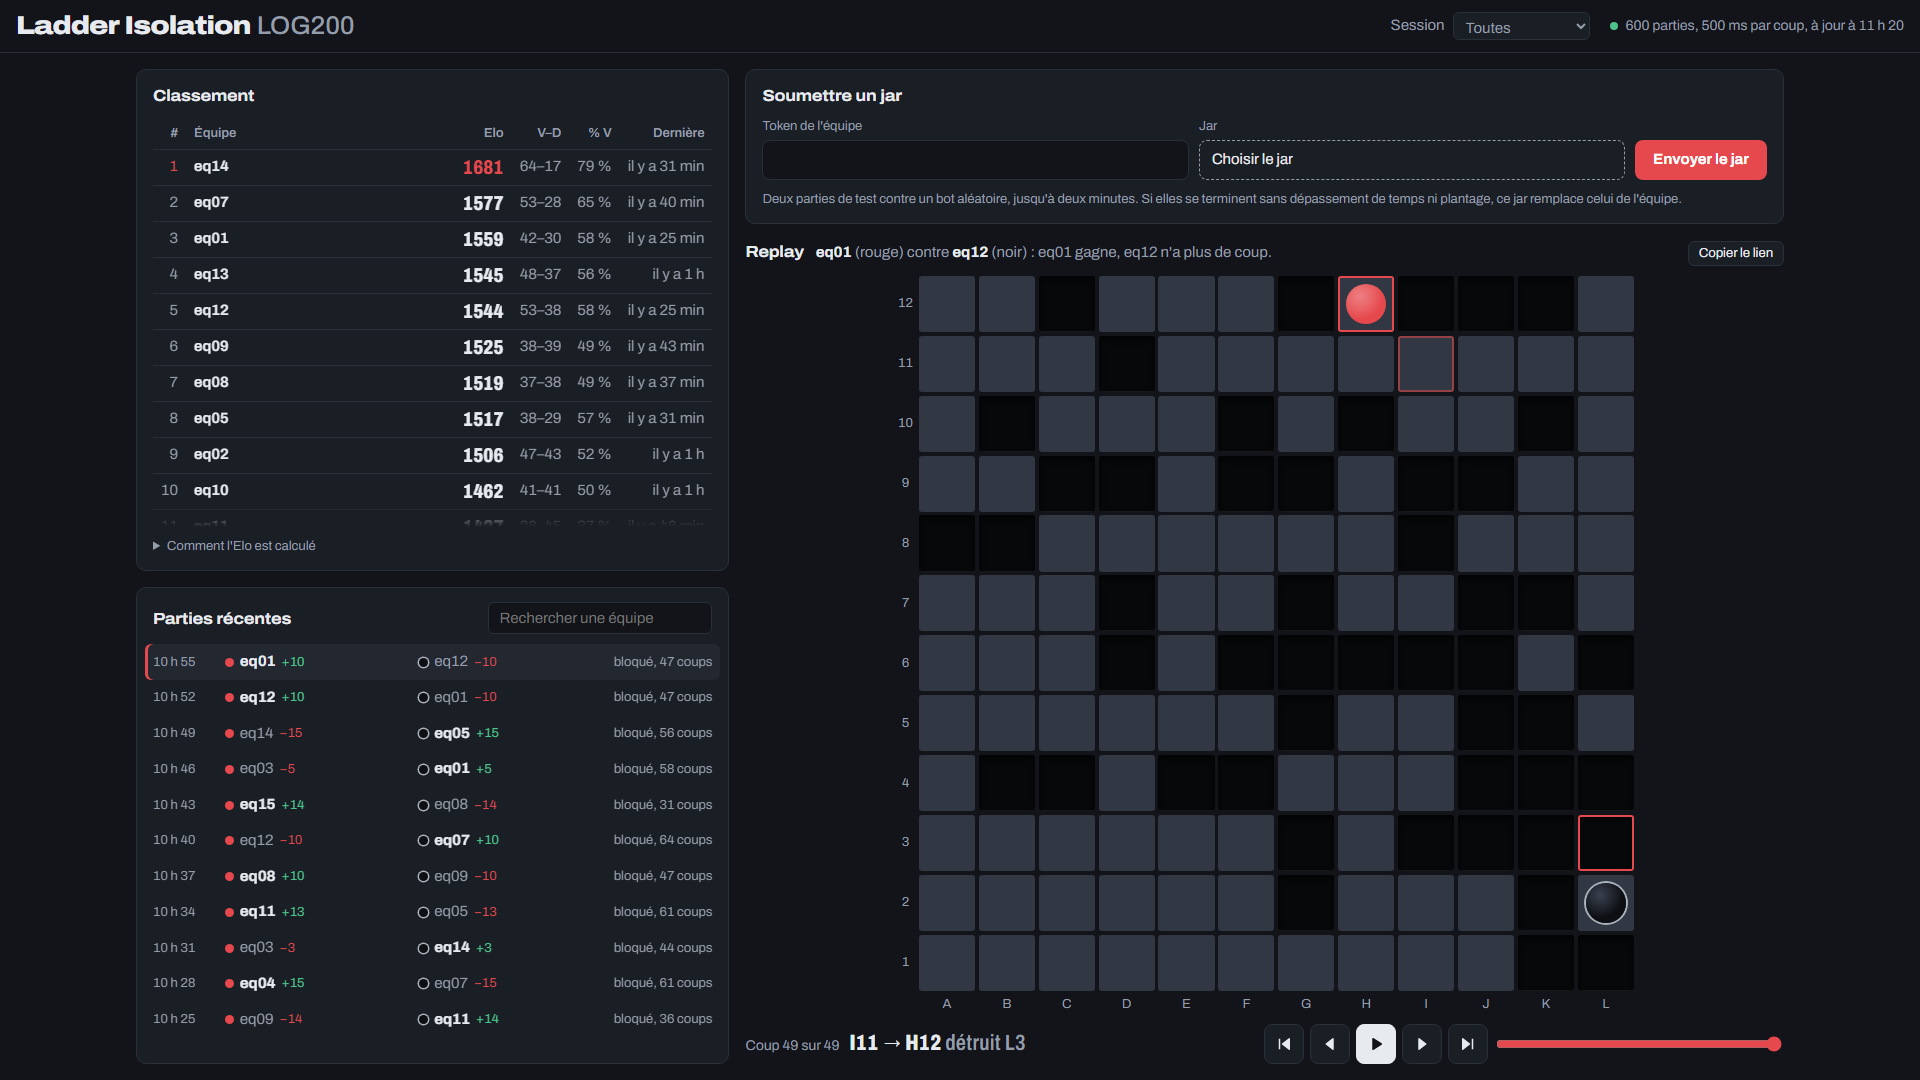
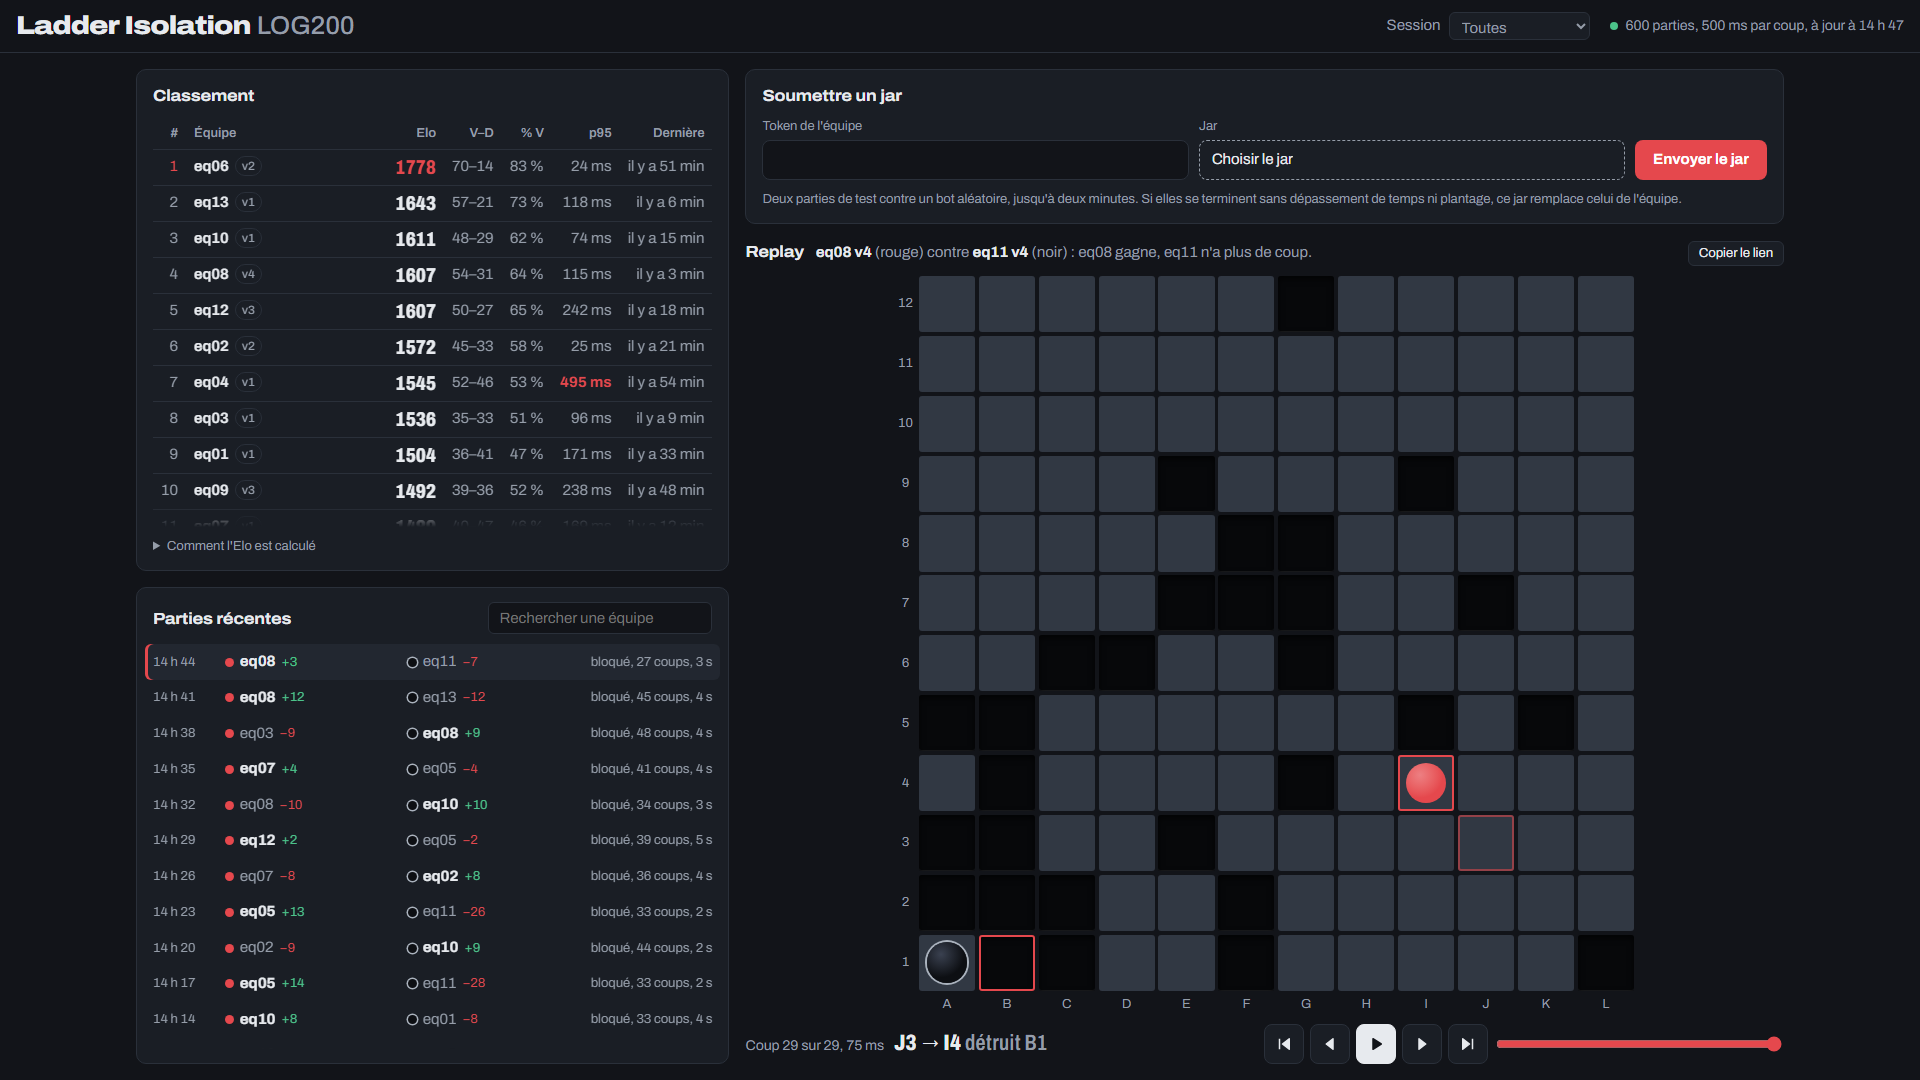
feat: enhance game result structure with move timing

diff --git a/web/app.js b/web/app.js
@@ -3,7 +3,7 @@
 // sert la page. Données : ?data=URL, sinon <serveur>/data/games.jsonl.
 // ?session=, ?team= et ?game= suivent les choix de la page : l'adresse se partage telle quelle.
 
-import { computeRatings, parseJsonl, sessions, START } from './elo.js'
+import { computeRatings, moveTimes, parseJsonl, percentile, sessions, START, versions } from './elo.js'
 import { BLACK, DESTROYED, positions, RED, SIZE, squareName } from './replay.js'
 
 const params = new URLSearchParams(location.search)
@@ -12,6 +12,8 @@ const DATA_URL = params.get('data') ?? `${SERVER}/data/games.jsonl`
 const REFRESH_MS = 15000
 const RECENT_GAMES = 50
 const PLAY_MS = 500
+// p99 au-delà de cette part du temps par coup : l'équipe frôle le timeout.
+const PACE_WARN = 0.8
 const GLOBAL = ''
 const SESSION = params.get('session') ?? GLOBAL
 const TEAM = params.get('team') ?? GLOBAL
@@ -37,6 +39,8 @@ const ENDINGS = {
 
 let lastText = null
 let games = []
+// Équipe vers ses builds dans l'ordre, toutes sessions : sert à afficher vN.
+let builds = new Map()
 // Courbe de l'équipe recherchée : points[0] est le départ à START, puis une entrée d'historique par partie.
 let chart = { team: null, points: [], min: 0, max: 0, index: 0 }
 // `pinned` : la personne a choisi une partie ; sinon le replay suit la dernière jouée.
@@ -82,6 +86,7 @@ async function refresh() {
             const first = lastText === null
             lastText = text
             games = parseJsonl(text).games
+            builds = versions(games)
             renderSessions(first)
             const linked = first && games.find((g) => g.id === GAME)
             if (linked) showGame(linked, true)
@@ -145,7 +150,7 @@ function render() {
     const session = $('session').value || null
     const list = selectedGames()
     const ratings = computeRatings(games, session)
-    renderRanking(ratings)
+    renderRanking(ratings, paces(ratings, session))
     renderChart(ratings)
     renderGames(list, new Map(ratings.flatMap((r) => r.history.map((h) => [`${h.id}|${r.team}`, h]))))
 
@@ -160,7 +165,42 @@ function render() {
     if (latest && !replay.pinned && replay.game?.id !== latest.id) showGame(latest)
 }
 
-function renderRanking(ratings) {
+// « v3 » pour le build de `player`, vide sans build.
+function version(player) {
+    const n = player.build ? (builds.get(player.team)?.indexOf(player.build) ?? -1) + 1 : 0
+    return n ? `v${n}` : ''
+}
+
+// Temps par coup de chaque équipe avec son build du classement : coups triés et plus petit temps alloué.
+function paces(ratings, session) {
+    const current = new Map(ratings.map((r) => [r.team, r.build]))
+    const out = new Map()
+    for (const g of games) {
+        if (session !== null && g.session !== session) continue
+        for (const color of ['red', 'black']) {
+            const p = g[color]
+            if ((p.build ?? null) !== current.get(p.team)) continue
+            const ms = moveTimes(g, color)
+            if (!ms.length) continue
+            const pace = out.get(p.team) ?? { ms: [], limit: Infinity }
+            pace.ms.push(...ms)
+            pace.limit = Math.min(pace.limit, g.time_ms)
+            out.set(p.team, pace)
+        }
+    }
+    for (const pace of out.values()) pace.ms.sort((a, b) => a - b)
+    return out
+}
+
+function paceCell(pace) {
+    if (!pace) return el('td', { class: 'num pace' })
+    const [p50, p95, p99] = [0.5, 0.95, 0.99].map((p) => percentile(pace.ms, p))
+    const title = `Médiane ${p50} ms, p99 ${p99} ms, max ${pace.ms.at(-1)} ms, ${pace.ms.length} coups`
+    const warn = p99 >= PACE_WARN * pace.limit ? ' warn' : ''
+    return el('td', { class: `num pace${warn}`, title }, `${p95} ms`)
+}
+
+function renderRanking(ratings, pace) {
     $('ranking-empty').hidden = ratings.length > 0
     $('anchor-note').hidden = !ratings.some((r) => r.anchor)
     $('ranking')
@@ -168,6 +208,8 @@ function renderRanking(ratings) {
         .replaceChildren(
             ...ratings.map((r, i) => {
                 const team = el('td', { class: 'team', title: r.team }, r.team)
+                const v = version(r)
+                if (v) team.append(el('span', { class: 'badge', title: `Build ${r.build}` }, v))
                 if (r.anchor) team.append(el('span', { class: 'badge anchor' }, 'ancre'))
                 if (r.provisional) team.append(el('span', { class: 'badge' }, 'provisoire'))
                 return el(
@@ -178,6 +220,7 @@ function renderRanking(ratings) {
                     el('td', { class: 'num elo' }, String(Math.round(r.rating))),
                     el('td', { class: 'num record' }, `${r.wins}–${r.losses}`),
                     el('td', { class: 'num pct' }, `${Math.round((100 * r.wins) / r.games)} %`),
+                    paceCell(pace.get(r.team)),
                     el(
                         'td',
                         { class: 'num last-col', title: r.last ? fullFormat.format(new Date(r.last)) : '' },
@@ -293,7 +336,11 @@ function renderGames(list, deltas) {
                 el('time', { datetime: g.ts, title: fullFormat.format(new Date(g.ts)) }, shortWhen(g.ts)),
                 side('red'),
                 side('black'),
-                el('span', { class: 'meta' }, `${REASONS[g.reason] ?? g.reason}, ${g.moves.length} coups`)
+                el(
+                    'span',
+                    { class: 'meta' },
+                    `${REASONS[g.reason] ?? g.reason}, ${g.moves.length} coups, ${Math.round(g.duration_ms / 1000)} s`
+                )
             )
             if (replay.game?.id === g.id) button.setAttribute('aria-current', 'true')
             button.addEventListener('click', () => showGame(g, true))
@@ -307,16 +354,19 @@ function renderGames(list, deltas) {
 function showGame(g, pinned = replay.pinned) {
     stopPlayback()
     const steps = positions(g)
-    replay = { game: g, steps, index: steps.length - 1, timer: null, pinned }
+    // moveMs[k] : temps du coup moves[k], vide si absent ou incohérent.
+    const moveMs = g.move_ms?.length === g.moves.length ? g.move_ms : []
+    replay = { game: g, steps, moveMs, index: steps.length - 1, timer: null, pinned }
     setParam('game', pinned ? g.id : null)
     $('step').max = String(steps.length - 1)
 
     const loser = g.winner === 'red' ? 'black' : 'red'
     const ending = ENDINGS[g.reason]?.(g[loser].team) ?? g.reason
+    const name = (color) => [g[color].team, version(g[color])].filter(Boolean).join(' ')
     $('replay-info').replaceChildren(
-        el('strong', {}, g.red.team),
+        el('strong', {}, name('red')),
         ' (rouge) contre ',
-        el('strong', {}, g.black.team),
+        el('strong', {}, name('black')),
         ` (noir) : ${g[g.winner].team} gagne, ${ending}.`
     )
     for (const button of $('games').querySelectorAll('.game')) {
@@ -328,7 +378,7 @@ function showGame(g, pinned = replay.pinned) {
 }
 
 function drawStep() {
-    const { steps, index } = replay
+    const { steps, moveMs, index } = replay
     const step = steps[index]
     const board = $('board')
     const nodes = []
@@ -359,7 +409,10 @@ function drawStep() {
     $('step').value = String(index)
     if (step.move) {
         const { from, to, destroyed } = step.move
-        $('move-count').textContent = `Coup ${index} sur ${total}${step.opening ? ', ouverture' : ''}`
+        // Les coups des clients sont les derniers pas, après l'ouverture.
+        const ms = moveMs[index - (steps.length - moveMs.length)]
+        const detail = step.opening ? ', ouverture' : ms !== undefined ? `, ${ms} ms` : ''
+        $('move-count').textContent = `Coup ${index} sur ${total}${detail}`
         $('move-text').replaceChildren(
             `${squareName(from)} → ${squareName(to)} `,
             el('span', { class: 'destroyed' }, `détruit ${squareName(destroyed)}`)

diff --git a/web/elo.js b/web/elo.js
@@ -89,6 +89,32 @@ export function computeRatings(games, session = null) {
         .sort((a, b) => b.rating - a.rating)
 }
 
+// Builds distincts de chaque equipe dans l'ordre d'apparition, toutes sessions : vN = index + 1.
+export function versions(games) {
+    const out = new Map()
+    const sorted = games.slice().sort((a, b) => (a.ts < b.ts ? -1 : a.ts > b.ts ? 1 : 0))
+    for (const g of sorted) {
+        for (const p of [g.red, g.black]) {
+            if (!p.build) continue
+            if (!out.has(p.team)) out.set(p.team, [])
+            if (!out.get(p.team).includes(p.build)) out.get(p.team).push(p.build)
+        }
+    }
+    return out
+}
+
+// Temps de reflexion des coups de `color` ; vide si absent ou incoherent. Le rouge joue les coups pairs.
+export function moveTimes(game, color) {
+    const ms = game.move_ms
+    if (!Array.isArray(ms) || ms.length !== game.moves.length) return []
+    return ms.filter((_, i) => i % 2 === (color === 'red' ? 0 : 1))
+}
+
+// Rang le plus proche, sur une liste triee non vide.
+export function percentile(sorted, p) {
+    return sorted[Math.max(0, Math.ceil(p * sorted.length) - 1)]
+}
+
 export function sessions(games) {
     const latest = new Map()
     for (const g of games) {

diff --git a/web/index.html b/web/index.html
@@ -43,6 +43,9 @@
                             <th scope="col" class="num">Elo</th>
                             <th scope="col" class="num"><abbr title="Victoires et défaites">V–D</abbr></th>
                             <th scope="col" class="num"><abbr title="Pourcentage de victoires">% V</abbr></th>
+                            <th scope="col" class="num pace">
+                                <abbr title="95e centile du temps par coup, version actuelle">p95</abbr>
+                            </th>
                             <th scope="col" class="num last-col">Dernière</th>
                         </tr>
                     </thead>

diff --git a/web/style.css b/web/style.css
@@ -337,8 +337,14 @@ tbody tr:first-child .elo {
 
 .record,
 .last-col,
-.pct {
+.pct,
+.pace {
     color: var(--muted);
+}
+
+.pace.warn {
+    color: var(--red);
+    font-weight: 700;
 }
 
 .badge {
@@ -895,7 +901,8 @@ input[type='range'] {
     }
 
     .last-col,
-    .pct {
+    .pct,
+    .pace {
         display: none;
     }
 

diff --git a/src/bin/referee.rs b/src/bin/referee.rs
@@ -69,7 +69,7 @@ fn run(cli: &Cli) -> anyhow::Result<()> {
 
     let start = Instant::now();
     let connect_timeout = Duration::from_millis(cli.connect_timeout_ms);
-    let (verdict, moves, invalid) = match seat_players(&listener, connect_timeout, cli.time_ms, &board)? {
+    let (verdict, moves, move_ms, invalid) = match seat_players(&listener, connect_timeout, cli.time_ms, &board)? {
         Lobby::Ready(players) => {
             let mut referee = Referee {
                 board,
@@ -77,12 +77,13 @@ fn run(cli: &Cli) -> anyhow::Result<()> {
                 time: Duration::from_millis(cli.time_ms),
                 max_invalid: cli.max_invalid,
                 moves: Vec::new(),
+                move_ms: Vec::new(),
                 invalid: InvalidCounts::default(),
             };
             let verdict = referee.run();
             referee.players.red.shutdown();
             referee.players.black.shutdown();
-            (verdict, referee.moves, referee.invalid)
+            (verdict, referee.moves, referee.move_ms, referee.invalid)
         }
         Lobby::NoShow { absent, red } => {
             // Le rouge déjà connecté apprend qu'il gagne, sans coup joué.
@@ -97,7 +98,7 @@ fn run(cli: &Cli) -> anyhow::Result<()> {
                 winner: absent.other(),
                 reason: Reason::NoShow,
             };
-            (verdict, Vec::new(), InvalidCounts::default())
+            (verdict, Vec::new(), Vec::new(), InvalidCounts::default())
         }
     };
 
@@ -109,7 +110,8 @@ fn run(cli: &Cli) -> anyhow::Result<()> {
         winner: verdict.winner,
         reason: verdict.reason,
         invalid,
-        duration_ms: u64::try_from(start.elapsed().as_millis()).unwrap_or(u64::MAX),
+        duration_ms: millis(start),
+        move_ms,
     };
     eprintln!(
         "gagnant {} ({:?}) en {} coups",
@@ -119,6 +121,10 @@ fn run(cli: &Cli) -> anyhow::Result<()> {
     );
     println!("{}", serde_json::to_string(&result)?);
     Ok(())
+}
+
+fn millis(since: Instant) -> u64 {
+    u64::try_from(since.elapsed().as_millis()).unwrap_or(u64::MAX)
 }
 
 /// Plateau après l'ouverture, qui doit laisser la main au rouge sans finir la partie.
@@ -208,6 +214,7 @@ struct Referee {
     time: Duration,
     max_invalid: u32,
     moves: Vec<Move>,
+    move_ms: Vec<u64>,
     invalid: InvalidCounts,
 }
 
@@ -226,6 +233,8 @@ impl Referee {
                 },
                 Some(&last) => ServerMsg::Request(Some(last)),
             };
+            // Temps compté contre le joueur : réseau et coups refusés compris.
+            let asked = Instant::now();
             if !self.send(turn, request) {
                 return self.forfeit(turn, Reason::Disconnect);
             }
@@ -235,6 +244,7 @@ impl Referee {
             };
             self.board.apply(mv);
             self.moves.push(mv);
+            self.move_ms.push(millis(asked));
             if let Some(winner) = rules::winner_after(&self.board, turn) {
                 for (color, outcome) in [(winner, Outcome::Win), (winner.other(), Outcome::Loss)] {
                     self.send(

diff --git a/src/record.rs b/src/record.rs
@@ -40,6 +40,9 @@ pub struct GameResult {
     #[serde(default)]
     pub invalid: InvalidCounts,
     pub duration_ms: u64,
+    /// Temps de réflexion de chaque coup de `moves`, même index. Absent chez d'autres arbitres.
+    #[serde(default, skip_serializing_if = "Vec::is_empty")]
+    pub move_ms: Vec<u64>,
 }
 
 #[derive(Serialize, Deserialize, Clone, PartialEq, Eq, Debug)]
@@ -211,6 +214,7 @@ mod tests {
                 reason: Reason::Timeout,
                 invalid: InvalidCounts { red: 0, black: 1 },
                 duration_ms: 1234,
+                move_ms: vec![42],
             },
         }
     }
@@ -230,7 +234,7 @@ mod tests {
     fn jsonl_line_is_stable() {
         let game = sample();
         let expected = format!(
-            r#"{{"id":"g1","session":"test","ts":"2026-10-24T12:00:00.000Z","red":{{"team":"eq01","build":"abc"}},"black":{{"team":"eq02","anchor":true}},"v":1,"time_ms":500,"opening":[],"moves":["{}"],"winner":"red","reason":"timeout","invalid":{{"red":0,"black":1}},"duration_ms":1234}}"#,
+            r#"{{"id":"g1","session":"test","ts":"2026-10-24T12:00:00.000Z","red":{{"team":"eq01","build":"abc"}},"black":{{"team":"eq02","anchor":true}},"v":1,"time_ms":500,"opening":[],"moves":["{}"],"winner":"red","reason":"timeout","invalid":{{"red":0,"black":1}},"duration_ms":1234,"move_ms":[42]}}"#,
             game.result.moves[0]
         );
         assert_eq!(serde_json::to_string(&game).unwrap(), expected);

diff --git a/tests/e2e.rs b/tests/e2e.rs
@@ -47,6 +47,7 @@ fn bots_play_a_full_valid_game() {
     assert!(result.validate().is_ok());
     assert!(result.opening.is_empty());
     assert!(!result.moves.is_empty());
+    assert_eq!(result.move_ms.len(), result.moves.len());
 }
 
 #[test]

diff --git a/src/bin/ladder/submit/smoke.rs b/src/bin/ladder/submit/smoke.rs
@@ -91,6 +91,7 @@ mod tests {
             reason,
             invalid: InvalidCounts::default(),
             duration_ms: 0,
+            move_ms: vec![],
         }
     }
 

diff --git a/docs/formats.md b/docs/formats.md
@@ -83,7 +83,8 @@ Si une autre implémentation n'écrit pas `LISTENING` ni `CONNECTED red`, il suf
   "winner": "black",
   "reason": "no_moves",
   "invalid": { "red": 0, "black": 2 },
-  "duration_ms": 15100
+  "duration_ms": 15100,
+  "move_ms": [212, 480]
 }
 ```
 
@@ -97,6 +98,7 @@ Si une autre implémentation n'écrit pas `LISTENING` ni `CONNECTED red`, il suf
 | `reason` | chaîne | `no_moves` : le perdant n'avait plus de coup. `timeout` : temps dépassé. `disconnect` : connexion perdue. `protocol` : trop de coups invalides, si une limite est fixée. `no_show` : le perdant ne s'est jamais connecté (jar qui plante au démarrage, conteneur tué). |
 | `invalid` | objet | Nombre de coups refusés (`4`) par couleur. |
 | `duration_ms` | entier | Durée de la partie. |
+| `move_ms` | liste (facultatif) | Temps de chaque coup de `moves`, même index, de la demande de coup au coup accepté (coups refusés compris). Absent ou de longueur différente de `moves` : ignoré. |
 
 Avant d'enregistrer un résultat, le ladder rejoue la partie avec notre moteur ; un coup illégal ou un gagnant incohérent la fait rejeter.
 
@@ -118,7 +120,8 @@ Une ligne JSON par partie terminée, en ajout seul. Chaque ligne reprend l'objet
   "winner": "red",
   "reason": "no_moves",
   "invalid": { "red": 0, "black": 0 },
-  "duration_ms": 15100
+  "duration_ms": 15100,
+  "move_ms": [212, 480]
 }
 ```
 
